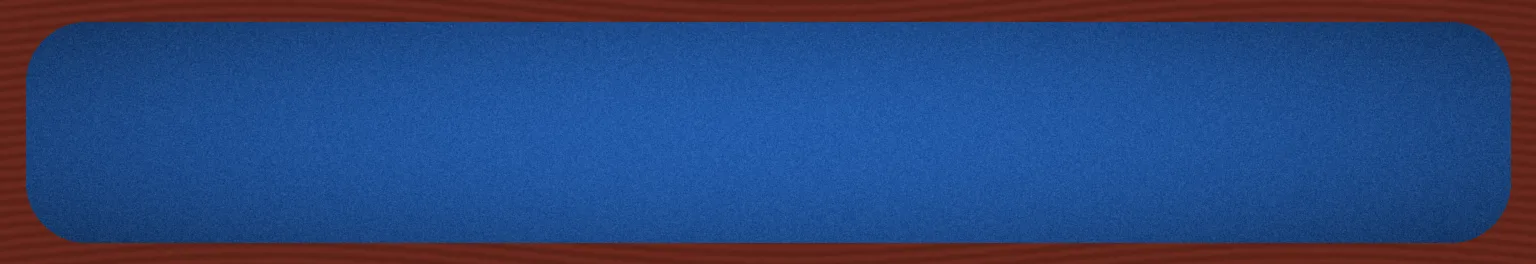
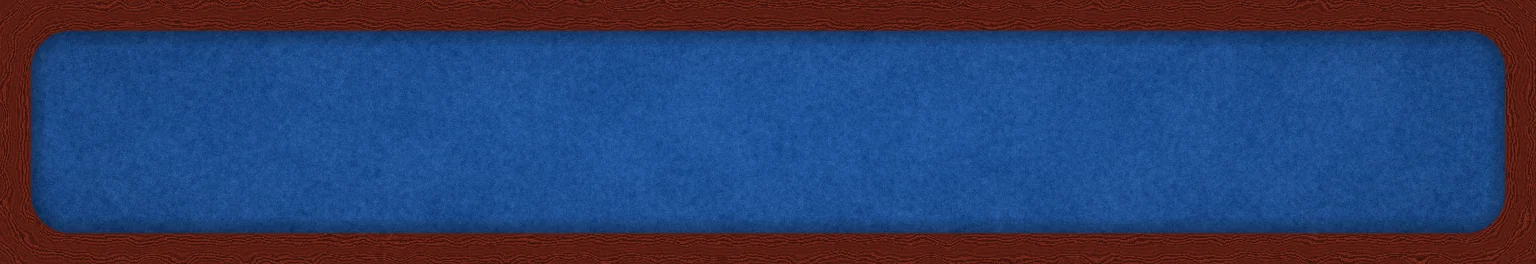
카지노 테이블을 둥근 포커 테이블로: 경기장 모양 트레이 · 가죽 쿠션 · 둥근 벽
- 모서리를 반지름 1.8 로 깎은 경기장 모양: 펠트 바닥 · 둘레를 감싸는 볼록한 검은 가죽 쿠션(바느질), 앞쪽 주사위 칸도 쿠션 고리 · 둥근 바닥 (dice3d.js buildOvalFrame)
- 물리: 네 모서리에 짧은 판 9개씩으로 둥근 벽 (makeWorld cornerR) — 25번 굴려 주사위가 모서리 밖으로 나가지 않음을 확인
- 질감 다시 그림: 촘촘한 파란 펠트 · 테두리를 따라 흐르는 마호가니 결과 광택 · 금선, 가죽 결 쿠션
- ART_VER a6, 쓰지 않는 casino 난간 그림 삭제

Claude-Session: https://claude.ai/code/session_014gChBYzVF9cfUwsBghVSK5

diff --git a/dice-heroes/dice3d.js b/dice-heroes/dice3d.js
@@ -90,7 +90,8 @@ const easeInOut = t => (t < 0.5 ? 4 * t * t * t : 1 - Math.pow(-2 * t + 2, 3) / 
 const easeIn = t => t * t * t;
 
 // 트레이 물리 세계 (바닥·벽·천장). 굴림 녹화와 흔드는 동안의 실시간 물리가 같이 쓴다
-function makeWorld(ceiling = 6.0, dieBounce = 0.08) {
+// cornerR: 둥근 모서리 트레이(포커 테이블)는 네 모서리에 둥근 벽을 짧은 판 여러 개로 세운다
+function makeWorld(ceiling = 6.0, dieBounce = 0.08, cornerR = 0) {
   const world = new CANNON.World({ gravity: new CANNON.Vec3(0, -32, 0) });
   world.allowSleep = true;
   const dieMat = new CANNON.Material('die');
@@ -116,6 +117,20 @@ function makeWorld(ceiling = 6.0, dieBounce = 0.08) {
     b.position.set(...p);
     b.quaternion.setFromEuler(...r);
     world.addBody(b);
+  }
+  if (cornerR > 0) {
+    const SEG = 9, th = 0.6, len = (Math.PI / 2) * cornerR / SEG + 0.08;
+    for (const sx of [-1, 1]) for (const sz of [-1, 1]) {
+      const cx = sx * (TRAY_W / 2 - cornerR), cz = sz * (TRAY_D / 2 - cornerR);
+      for (let k = 0; k < SEG; k++) {
+        const a = ((k + 0.5) / SEG) * (Math.PI / 2), nx = sx * Math.cos(a), nz = sz * Math.sin(a);   // 바깥을 향한 법선
+        const r = cornerR + th / 2;
+        const b = new CANNON.Body({ mass: 0, material: wallMat, shape: new CANNON.Box(new CANNON.Vec3(len / 2, 3, th / 2)) });
+        b.position.set(cx + nx * r, 3, cz + nz * r);
+        b.quaternion.setFromEuler(0, Math.atan2(-nz, nx) + Math.PI / 2, 0);
+        world.addBody(b);
+      }
+    }
   }
 
   return { world, dieMat };
@@ -442,9 +457,12 @@ export class DiceTray {
       bm.map = img('box', () => drawBoxFloor(document.createElement('canvas'), trayId)) || this.canvasTex(drawBoxFloor(document.createElement('canvas'), trayId));
       bm.needsUpdate = true;
       // 그림 난간이 있는 스킨: 단색 나무 테두리 대신 울퉁불퉁한 그림 난간 · 모서리 기둥 · 보석 장식 (기본 트레이는 그대로)
-      const frame = st.rails ? (this.fancyFrames ||= {})[trayId] ||= this.buildFancyFrame(trayId, st) : null;
+      const frame = st.oval ? (this.fancyFrames ||= {})[trayId] ||= this.buildOvalFrame(trayId, st)
+        : st.rails ? (this.fancyFrames ||= {})[trayId] ||= this.buildFancyFrame(trayId, st) : null;
       Object.values(this.fancyFrames || {}).forEach(f => { f.visible = f === frame; });
       this.plainFrame.forEach(o => { o.visible = !frame; });
+      this.cornerR = st.oval || 0;
+      this.floorMesh.visible = this.boxFloor.visible = !st.oval;   // 둥근 트레이는 모서리를 깎은 바닥 · 칸 바닥을 따로 쓴다 (같은 재질)
     }
   }
 
@@ -528,6 +546,52 @@ export class DiceTray {
       m.castShadow = m.receiveShadow = true;
       grp.add(m);
     }
+    this.scene.add(grp);
+    return grp;
+  }
+  // 둥근 포커 테이블 (카지노): 모서리를 깎은 펠트 바닥 + 둘레를 감싸는 볼록한 검은 가죽 쿠션, 앞쪽 주사위 칸도 쿠션으로 두른다
+  buildOvalFrame(id, st) {
+    const R = st.oval, grp = new THREE.Group();
+    const rr = (hw, hd, r) => {        // 가운데 기준 둥근 사각형 Shape
+      const s = new THREE.Shape();
+      s.moveTo(-hw + r, -hd); s.lineTo(hw - r, -hd); s.absarc(hw - r, -hd + r, r, -Math.PI / 2, 0);
+      s.lineTo(hw, hd - r); s.absarc(hw - r, hd - r, r, 0, Math.PI / 2);
+      s.lineTo(-hw + r, hd); s.absarc(-hw + r, hd - r, r, Math.PI / 2, Math.PI);
+      s.lineTo(-hw, -hd + r); s.absarc(-hw + r, -hd + r, r, Math.PI, Math.PI * 1.5);
+      return s;
+    };
+    const fg = new THREE.ShapeGeometry(rr(TRAY_W / 2, TRAY_D / 2, R), 24);
+    const p = fg.attributes.position, uv = fg.attributes.uv;
+    for (let i = 0; i < p.count; i++) uv.setXY(i, p.getX(i) / TRAY_W + 0.5, p.getY(i) / TRAY_D + 0.5);
+    const floor = new THREE.Mesh(fg, this.floorMesh.material);
+    floor.rotation.x = -Math.PI / 2; floor.receiveShadow = true;
+    grp.add(floor);
+    const tex = this.imageTex(trayImage(id, 'cushion')).clone();
+    tex.wrapS = THREE.RepeatWrapping; tex.colorSpace = THREE.SRGBColorSpace; tex.needsUpdate = true;
+    const leather = new THREE.MeshStandardMaterial({ map: tex, roughness: 0.42, metalness: 0.05, envMap: this.envMap(), envMapIntensity: 0.55 });
+    // 둥근 사각형 둘레를 따라 가는 관 (단면은 위아래로 조금 납작한 원)
+    const cushion = (hw, hd, r, rad, h, rep) => {
+      const pts = rr(hw, hd, r).getSpacedPoints(220).map(q => new THREE.Vector3(q.x, 0, -q.y));
+      const g = new THREE.TubeGeometry(new THREE.CatmullRomCurve3(pts, true), 440, rad, 18, true);
+      const m = new THREE.Mesh(g, leather.clone());
+      m.material.map = tex.clone(); m.material.map.repeat.set(rep, 1); m.material.map.needsUpdate = true;
+      m.scale.y = 0.85; m.position.y = h; m.castShadow = m.receiveShadow = true;
+      return m;
+    };
+    const CR = 0.3, off = CR - 0.02;   // 쿠션 안쪽 면이 벽(바닥 가장자리)에 닿게
+    grp.add(cushion(TRAY_W / 2 + off, TRAY_D / 2 + off, R + off, CR, CR * 0.95, 22));
+    // 앞쪽 주사위 칸: 얇은 쿠션 고리
+    const bz0 = TRAY_D / 2 + 2 * CR, bz1 = BOX_Z + BOX_D / 2 + BOX_T, bc = 0.17;
+    const ring = cushion(BOX_OUT - bc, (bz1 - bz0) / 2 - bc, 0.55, bc, bc * 0.95, 18);
+    ring.position.z = (bz0 + bz1) / 2;
+    grp.add(ring);
+    // 주사위 칸 바닥도 쿠션 고리 안쪽에 맞춘 둥근 바닥 (네모 바닥이 쿠션 밖으로 삐져나오지 않게)
+    const bhw = BOX_OUT - 2 * bc + 0.04, bhd = (bz1 - bz0) / 2 - 2 * bc + 0.04;
+    const bg = new THREE.ShapeGeometry(rr(bhw, bhd, 0.42), 16), bp = bg.attributes.position, buv = bg.attributes.uv;
+    for (let i = 0; i < bp.count; i++) buv.setXY(i, bp.getX(i) / (2 * bhw) + 0.5, bp.getY(i) / (2 * bhd) + 0.5);
+    const bf = new THREE.Mesh(bg, this.boxFloor.material);
+    bf.rotation.x = -Math.PI / 2; bf.position.set(0, 0.002, (bz0 + bz1) / 2); bf.receiveShadow = true;
+    grp.add(bf);
     this.scene.add(grp);
     return grp;
   }
@@ -862,7 +926,7 @@ export class DiceTray {
     speed *= 1.2;                  // 굴러가는 모습 1.2배속
     const n = values.length;
     this.ensure(n);
-    const { world, dieMat } = makeWorld();
+    const { world, dieMat } = makeWorld(6.0, 0.08, this.cornerR || 0);
 
     const bodies = [];
     let boxing = false;   // 고정한 주사위를 함으로 옮기는 중이면, 다 옮긴 다음에 던진다
@@ -1068,7 +1132,7 @@ export class DiceTray {
   // 흔들기를 멈추면 앱이 roll() 을 부르고, roll() 은 지금 자세·속도 그대로 이어서 멈출 때까지 굴린다
   startShake(rolling) {
     if (this.anim || this.live) return false;
-    const { world, dieMat } = makeWorld(3.4, 0.7);   // 흔드는 동안은 천장을 낮춰 트레이 안에서만 튀고, 주사위끼리는 통통 튕긴다
+    const { world, dieMat } = makeWorld(3.4, 0.7, this.cornerR || 0);   // 흔드는 동안은 천장을 낮춰 트레이 안에서만 튀고, 주사위끼리는 통통 튕긴다
     const shape = new CANNON.Box(new CANNON.Vec3(HALF * 0.96, HALF * 0.96, HALF * 0.96));
     const bodies = [];
     let lastHit = 0;

diff --git a/dice-heroes/skins.js b/dice-heroes/skins.js
@@ -39,7 +39,7 @@ export const TRAY_SKINS = [
   { id: 'starry', name: '은하', desc: '별 가루 반짝이는 밤하늘', tier: 'special' },
   { id: 'pixel8', name: '8비트 픽셀', desc: '남보라 도트 체크 · 도트 테두리', tier: 'special' },
   { id: 'deck', name: '해적선 갑판', desc: '낡은 나무 갑판 · 밧줄 감긴 난간', tier: 'special' },
-  { id: 'casino', name: '카지노 테이블', desc: '파란 펠트 · 마호가니 띠 · 검은 가죽 쿠션의 포커 테이블', tier: 'special' },
+  { id: 'casino', name: '카지노 테이블', desc: '파란 펠트와 가죽 쿠션의 둥근 포커 테이블', tier: 'special' },
   { id: 'alchemy', name: '연금술 작업대', desc: '얼룩진 가죽 작업대 · 놋쇠 띠', tier: 'special' },
   { id: 'ruins', name: '고대 유적', desc: '이끼 낀 돌 판석 · 은은한 룬빛', tier: 'special' },
   { id: 'glacier', name: '빙하', desc: '갈라진 얼음판 아래 푸른빛', tier: 'special' },
@@ -98,7 +98,7 @@ export const dieGlows = id => !!DIE_MAT[id]?.glow;
 // 그림 주소 끝에 그림 버전(ART_VER)을 붙인다. 게임 버전을 붙이면 업데이트마다 주사위 · 트레이 그림을 전부 다시 받아서
 // 첫 판에 트레이가 늦게 뜨곤 했다. 주사위 · 트레이 그림 파일을 바꾸거나 더하면 sw.js 의 ART_VER 와 함께 올린다
 // (안 올려도 sw.js 가 뒤에서 새 그림을 받아 두어 다음 실행부터는 새 그림 — 올리면 바로)
-export const ART_VER = 'a5';
+export const ART_VER = 'a6';
 const AV = `?v=${ART_VER}`;
 export const dieImage = (id, v) => (DIE_MAT[id]?.image ? `assets/dice/${id}/${v}.webp${AV}` : null);
 export const dieGlowImage = (id, v) => (DIE_MAT[id]?.glowImage ? `assets/dice/${id}/${v}_glow.webp${AV}` : null);
@@ -415,7 +415,8 @@ const IMAGE_TRAY = {
   // v0.39.10 새 트레이 7종 (디자인 세션 그림, 장식 없는 재질 하나 · 곧은 난간)
   pixel8: { rail: 0x32233B, trim: 0x967348, glow: 0, rails: { gemColor: 0x967348, rough: 0.8, metal: 0 } },
   deck: { rail: 0x443024, trim: 0x8E7958, glow: 0, rails: { gemColor: 0x8E7958, rough: 0.8, metal: 0.05 } },
-  casino: { rail: 0x141418, trim: 0x6A2A1A, trimEnv: true, glow: 0, rails: { gemColor: 0xA78B4D, rough: 0.32, metal: 0.12 } },   // 포커 테이블: 파란 펠트 · 마호가니 띠 · 검은 가죽 쿠션 난간
+  // 포커 테이블: 모서리가 둥근 경기장 모양 (oval = 모서리 반지름). 바닥에 파란 펠트 · 마호가니 띠, 둘레는 검은 가죽 쿠션 (cushion.webp) — dice3d.js buildOvalFrame
+  casino: { rail: 0x141418, trim: 0x6A2A1A, glow: 0, oval: 1.8 },
   alchemy: { rail: 0x5A4B31, trim: 0x9A8758, trimEnv: true, glow: 0, rails: { gemColor: 0x9A8758, rough: 0.6, metal: 0.25 } },
   ruins: { rail: 0x373E3E, trim: 0x667C79, glow: 0.45, railGlow: true, rails: { gemColor: 0x3EC8FF, rough: 0.85, metal: 0 } },
   glacier: { rail: 0x335E78, trim: 0xA6CAD7, trimEnv: true, glow: 0.45, railGlow: true, rails: { gemColor: 0xA6CAD7, rough: 0.2, metal: 0.05 } },
@@ -426,7 +427,7 @@ export const trayStyle = id => (IMAGE_TRAY[id] ? { ...(TRAY_STYLE[id] || TRAY_ST
 export const trayImage = (id, kind) => (IMAGE_TRAY[id] ? `assets/trays/${id}/${kind}.webp${AV}` : null);
 // 트레이 그림도 미리 받아 둔다 (꾸미기에서 고르면 바닥이 비었다가 뒤늦게 뜨지 않게)
 export const RAIL_FILES = ['rail_top', 'rail_side', 'corner_side', 'corner_top'];
-const trayImages = id => [...['floor', 'glow', 'box'], ...(IMAGE_TRAY[id]?.rails ? RAIL_FILES : []), ...(IMAGE_TRAY[id]?.railGlow ? ['rail_glow'] : [])].map(k => trayImage(id, k)).filter(Boolean);
+const trayImages = id => [...['floor', 'glow', 'box'], ...(IMAGE_TRAY[id]?.rails ? RAIL_FILES : []), ...(IMAGE_TRAY[id]?.oval ? ['cushion'] : []), ...(IMAGE_TRAY[id]?.railGlow ? ['rail_glow'] : [])].map(k => trayImage(id, k)).filter(Boolean);
 export const trayReady = id => trayImages(id).every(u => READY.has(u));
 export const preloadTray = id => Promise.all(trayImages(id).map(loadImage));
 

diff --git a/dice-heroes/sw.js b/dice-heroes/sw.js
@@ -5,7 +5,7 @@
 // 그래서 새 버전을 배포하면 다음 실행에 바로 반영되고, 신호가 약해도 멈춰 있지 않는다.
 // 이름을 바꾸면 예전 캐시를 통째로 지운다 (v0.30.7: 버전이 안 붙은 예전 주사위·트레이 그림이 남아 있어서)
 const BGM_VER = 'b2';   // audio.js 의 BGM_VER 와 같아야 한다 (곡을 바꾸면 둘 다 올린다)
-const ART_VER = 'a5';  // skins.js 의 ART_VER 와 같아야 한다 (주사위 · 트레이 그림을 바꾸면 둘 다 올린다)
+const ART_VER = 'a6';  // skins.js 의 ART_VER 와 같아야 한다 (주사위 · 트레이 그림을 바꾸면 둘 다 올린다)
 const CACHE = 'dh-cache-3';   // v0.37.5: 버전이 안 붙은 예전 보스 곡(도입부 없는 루프)을 지운다
 const FILES = [
   './', 'index.html', 'style.css', 'app.js', 'engine.js', 'config.js', 'audio.js', 'dice3d.js', 'pixel.js',
@@ -17,7 +17,8 @@ const FILES = [
   ...['dragon', 'orc', 'lich', 'hydra', 'cyclops', 'overlord', 'demon', 'archdemon'].map(id => `assets/boss/${id}.webp`),
   ...['warrior', 'rogue', 'mage', 'bard', 'gambler', 'monk', 'dancer', 'outlaw', 'sharper'].map(k => `assets/heroes/${k}.webp`),
   // 그림 주사위 · 트레이 스킨: 앱이 부르는 주소 그대로(?v=그림 버전) → 설치할 때부터 캐시에 있어 첫 판부터 바로 뜬다
-  ...['marble', 'royal', 'deepsea', 'demon', 'sakura', 'lava', 'starry', 'pixel8', 'deck', 'casino', 'alchemy', 'ruins', 'glacier', 'dragonnest'].flatMap(k => ['floor', 'glow', 'box', 'thumb', 'rail_top', 'rail_side', 'corner_side', 'corner_top', ...(['demon', 'lava', 'starry', 'ruins', 'glacier', 'dragonnest'].includes(k) ? ['rail_glow'] : [])].map(f => `assets/trays/${k}/${f}.webp?v=${ART_VER}`)),
+  ...['marble', 'royal', 'deepsea', 'demon', 'sakura', 'lava', 'starry', 'pixel8', 'deck', 'alchemy', 'ruins', 'glacier', 'dragonnest'].flatMap(k => ['floor', 'glow', 'box', 'thumb', 'rail_top', 'rail_side', 'corner_side', 'corner_top', ...(['demon', 'lava', 'starry', 'ruins', 'glacier', 'dragonnest'].includes(k) ? ['rail_glow'] : [])].map(f => `assets/trays/${k}/${f}.webp?v=${ART_VER}`)),
+  ...['floor', 'glow', 'box', 'thumb', 'cushion'].map(f => `assets/trays/casino/${f}.webp?v=${ART_VER}`),   // 둥근 포커 테이블 (난간 그림 대신 쿠션)
   ...['openheart', 'gold', 'cosmic', 'black', 'heart', 'keycap', 'clear', 'minimal', 'dragon', 'lava', 'pixel', 'bone', 'slime', 'chip', 'chest', 'porcelain', 'frost', 'rune', 'brass', 'wisp'].flatMap(k => [1, 2, 3, 4, 5, 6].map(v => `assets/dice/${k}/${v}.webp?v=${ART_VER}`)),
   ...['dragon', 'lava', 'frost', 'rune', 'brass', 'wisp'].flatMap(k => [1, 2, 3, 4, 5, 6].map(v => `assets/dice/${k}/${v}_glow.webp?v=${ART_VER}`)),
 ];

diff --git a/dice-heroes/config.js b/dice-heroes/config.js
@@ -3,6 +3,6 @@ export const GAME = {
   name: '요트 히어로즈',
   en: 'YACHT HEROES',
   studio: 'HAHAHOHO COMPANY',
-  version: '0.39.18',
+  version: '0.39.19',
   year: 2026,
 };
